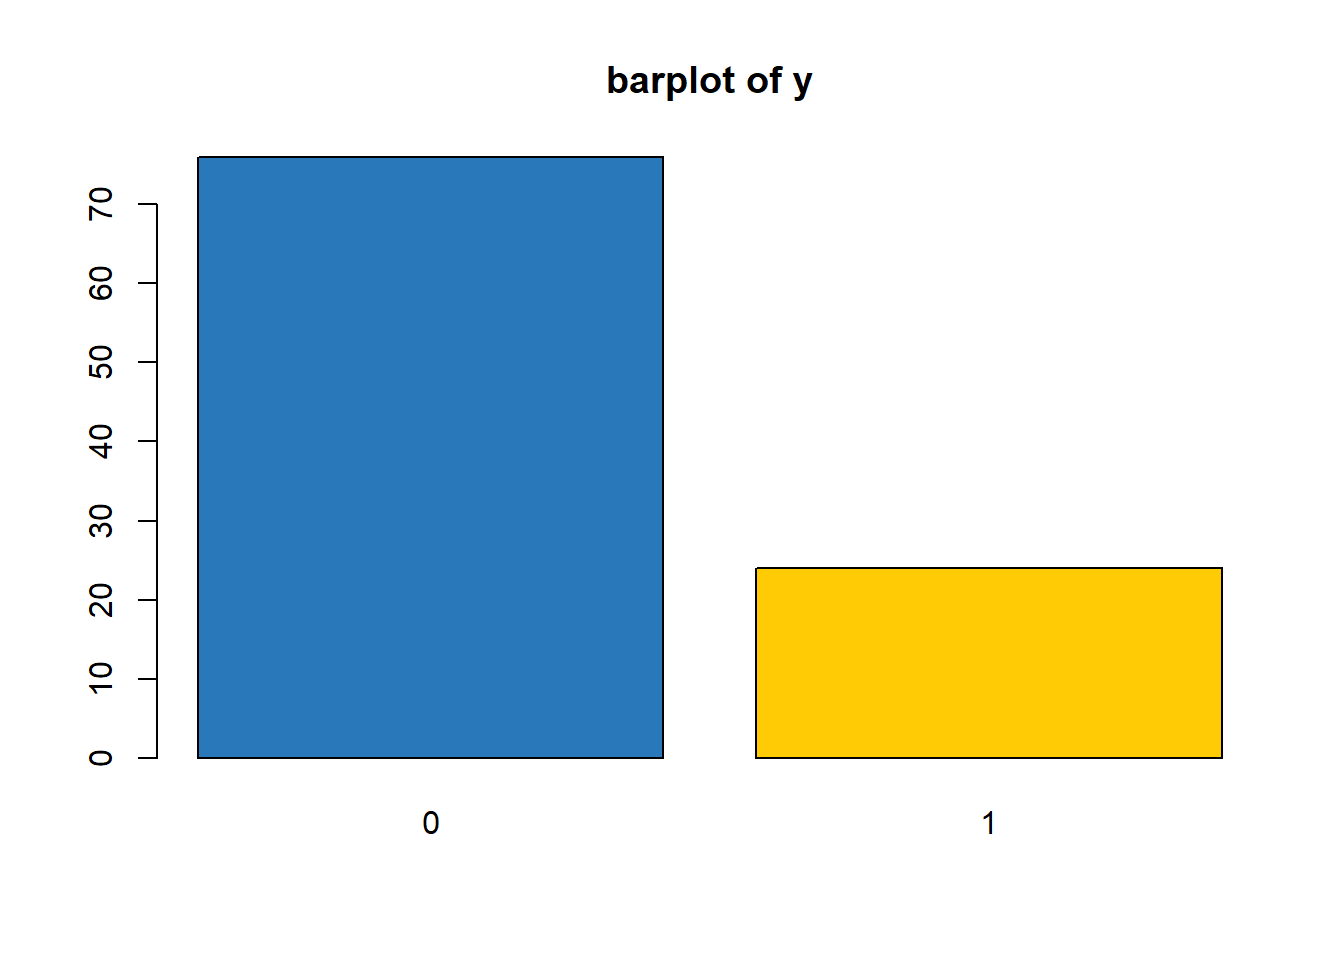
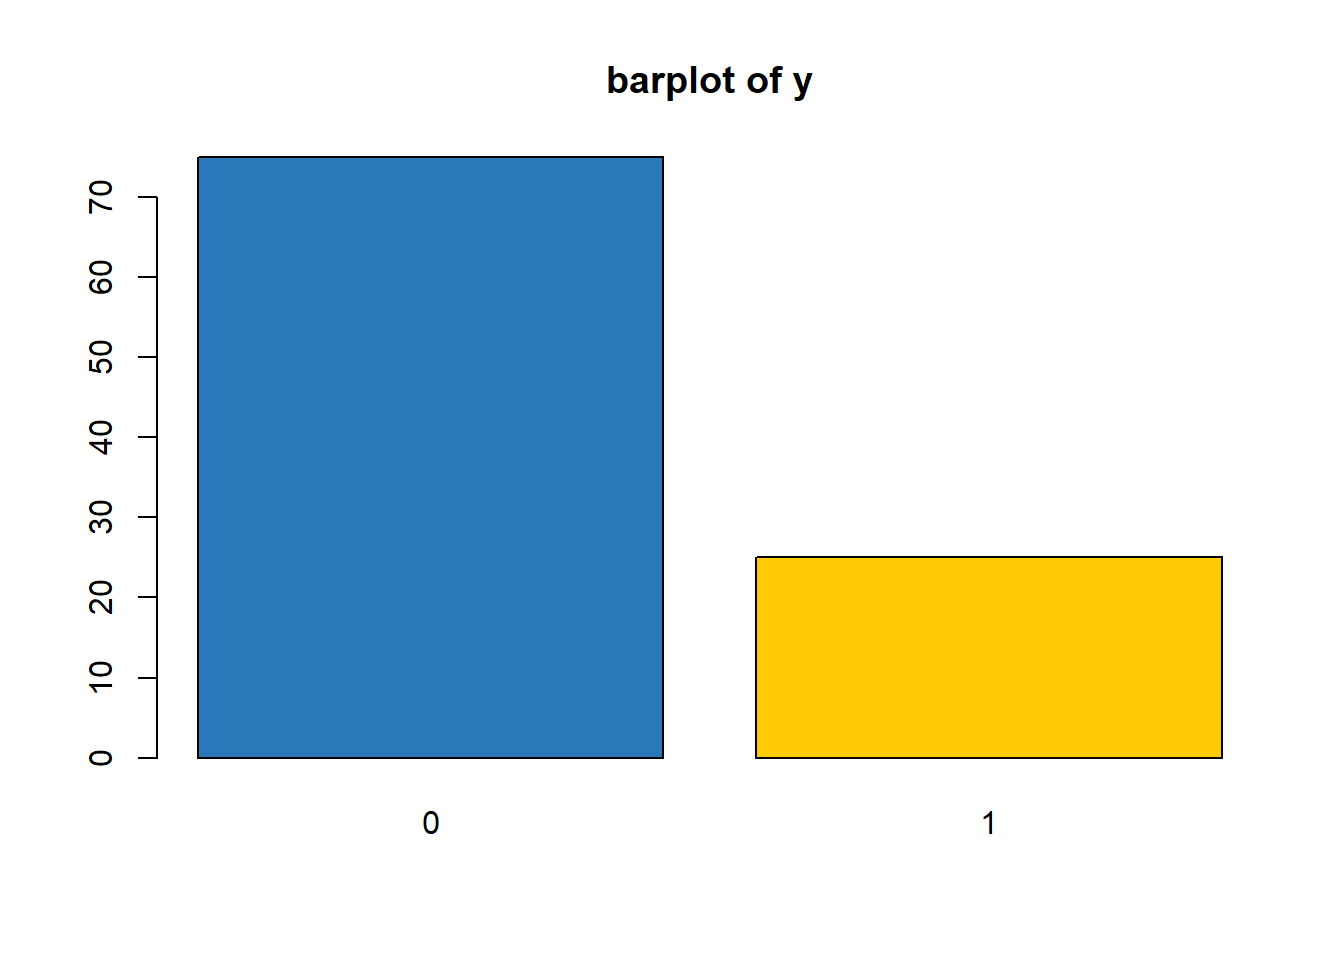
better CSS

diff --git a/introduction-to-R/process-your-data.html b/introduction-to-R/process-your-data.html
@@ -24,7 +24,7 @@
 <meta name="author" content="Andy Grogan-Kaylor" />
 
 
-<meta name="date" content="2019-12-11" />
+<meta name="date" content="2019-12-12" />
 
   <meta name="viewport" content="width=device-width, initial-scale=1" />
   <meta name="apple-mobile-web-app-capable" content="yes" />
@@ -212,13 +212,13 @@ code span.wa { color: #008000; font-weight: bold; } /* Warning */
 </blockquote>
 <div class="sourceCode" id="cb19"><pre class="sourceCode r"><code class="sourceCode r"><a class="sourceLine" id="cb19-1" title="1"><span class="kw">summary</span>(x1) </a></code></pre></div>
 <pre><code>##    Min. 1st Qu.  Median    Mean 3rd Qu.    Max. 
-##   62.87   92.46  100.83  100.16  107.32  131.19</code></pre>
+##   82.38   94.73  100.78  101.38  107.11  127.65</code></pre>
 <blockquote>
 <p>x2 is a factor.</p>
 </blockquote>
 <div class="sourceCode" id="cb21"><pre class="sourceCode r"><code class="sourceCode r"><a class="sourceLine" id="cb21-1" title="1"><span class="kw">summary</span>(x2)</a></code></pre></div>
 <pre><code>##  0  1 
-## 75 25</code></pre>
+## 74 26</code></pre>
 <p>It can sometimes be useful to change variables from one type to another.</p>
 <div class="sourceCode" id="cb23"><pre class="sourceCode r"><code class="sourceCode r"><a class="sourceLine" id="cb23-1" title="1">mydata<span class="op">$</span>x &lt;-<span class="st"> </span><span class="kw">as.numeric</span>(mydata<span class="op">$</span>y)</a>
 <a class="sourceLine" id="cb23-2" title="2"></a>

diff --git a/introduction-to-R/comments-questions-and-corrections.html b/introduction-to-R/comments-questions-and-corrections.html
@@ -24,7 +24,7 @@
 <meta name="author" content="Andy Grogan-Kaylor" />
 
 
-<meta name="date" content="2019-12-11" />
+<meta name="date" content="2019-12-12" />
 
   <meta name="viewport" content="width=device-width, initial-scale=1" />
   <meta name="apple-mobile-web-app-capable" content="yes" />
@@ -184,7 +184,7 @@ code span.wa { color: #008000; font-weight: bold; } /* Warning */
 <div id="comments-questions-and-corrections" class="section level1">
 <h1><span class="header-section-number">15</span> Comments, Questions and Corrections</h1>
 <p>Comments, questions and corrections most welcome and may be sent to: Andrew Grogan-Kaylor @ <a href="http://www.umich.edu/~agrogan">http://www.umich.edu/~agrogan</a> &amp; @ <a href="agrogan@umich.edu">agrogan@umich.edu</a>.</p>
-<p>Last updated: <code>December 11 2019</code> at <code>14:26</code></p>
+<p>Last updated: <code>December 12 2019</code> at <code>08:31</code></p>
 </div>
 
 

diff --git a/introduction-to-R/background.html b/introduction-to-R/background.html
@@ -24,7 +24,7 @@
 <meta name="author" content="Andy Grogan-Kaylor" />
 
 
-<meta name="date" content="2019-12-11" />
+<meta name="date" content="2019-12-12" />
 
   <meta name="viewport" content="width=device-width, initial-scale=1" />
   <meta name="apple-mobile-web-app-capable" content="yes" />
@@ -185,7 +185,7 @@ code span.wa { color: #008000; font-weight: bold; } /* Warning */
 <h1 class="title">Introduction to R</h1>
 <h2 class="subtitle"><em>A Practically Focused Guide</em></h2>
 <p class="author"><em>Andy Grogan-Kaylor</em></p>
-<p class="date"><em>December 11, 2019</em></p>
+<p class="date"><em>December 12, 2019</em></p>
 </div>
 <div id="background" class="section level1">
 <h1><span class="header-section-number">1</span> Background</h1>

diff --git a/introduction-to-R/base-r-and-libraries.html b/introduction-to-R/base-r-and-libraries.html
@@ -24,7 +24,7 @@
 <meta name="author" content="Andy Grogan-Kaylor" />
 
 
-<meta name="date" content="2019-12-11" />
+<meta name="date" content="2019-12-12" />
 
   <meta name="viewport" content="width=device-width, initial-scale=1" />
   <meta name="apple-mobile-web-app-capable" content="yes" />

diff --git a/introduction-to-R/bivariate-statistics.html b/introduction-to-R/bivariate-statistics.html
@@ -24,7 +24,7 @@
 <meta name="author" content="Andy Grogan-Kaylor" />
 
 
-<meta name="date" content="2019-12-11" />
+<meta name="date" content="2019-12-12" />
 
   <meta name="viewport" content="width=device-width, initial-scale=1" />
   <meta name="apple-mobile-web-app-capable" content="yes" />

diff --git a/introduction-to-R/descriptive-statistics.html b/introduction-to-R/descriptive-statistics.html
@@ -24,7 +24,7 @@
 <meta name="author" content="Andy Grogan-Kaylor" />
 
 
-<meta name="date" content="2019-12-11" />
+<meta name="date" content="2019-12-12" />
 
   <meta name="viewport" content="width=device-width, initial-scale=1" />
   <meta name="apple-mobile-web-app-capable" content="yes" />

diff --git a/introduction-to-R/get-your-data.html b/introduction-to-R/get-your-data.html
@@ -24,7 +24,7 @@
 <meta name="author" content="Andy Grogan-Kaylor" />
 
 
-<meta name="date" content="2019-12-11" />
+<meta name="date" content="2019-12-12" />
 
   <meta name="viewport" content="width=device-width, initial-scale=1" />
   <meta name="apple-mobile-web-app-capable" content="yes" />

diff --git a/introduction-to-R/graphical-user-interface.html b/introduction-to-R/graphical-user-interface.html
@@ -24,7 +24,7 @@
 <meta name="author" content="Andy Grogan-Kaylor" />
 
 
-<meta name="date" content="2019-12-11" />
+<meta name="date" content="2019-12-12" />
 
   <meta name="viewport" content="width=device-width, initial-scale=1" />
   <meta name="apple-mobile-web-app-capable" content="yes" />

diff --git a/introduction-to-R/graphing.html b/introduction-to-R/graphing.html
@@ -24,7 +24,7 @@
 <meta name="author" content="Andy Grogan-Kaylor" />
 
 
-<meta name="date" content="2019-12-11" />
+<meta name="date" content="2019-12-12" />
 
   <meta name="viewport" content="width=device-width, initial-scale=1" />
   <meta name="apple-mobile-web-app-capable" content="yes" />

diff --git a/introduction-to-R/introduction.html b/introduction-to-R/introduction.html
@@ -24,7 +24,7 @@
 <meta name="author" content="Andy Grogan-Kaylor" />
 
 
-<meta name="date" content="2019-12-11" />
+<meta name="date" content="2019-12-12" />
 
   <meta name="viewport" content="width=device-width, initial-scale=1" />
   <meta name="apple-mobile-web-app-capable" content="yes" />

diff --git a/introduction-to-R/multivariate-statistics.html b/introduction-to-R/multivariate-statistics.html
@@ -24,7 +24,7 @@
 <meta name="author" content="Andy Grogan-Kaylor" />
 
 
-<meta name="date" content="2019-12-11" />
+<meta name="date" content="2019-12-12" />
 
   <meta name="viewport" content="width=device-width, initial-scale=1" />
   <meta name="apple-mobile-web-app-capable" content="yes" />

diff --git a/introduction-to-R/save-and-document-your-work.html b/introduction-to-R/save-and-document-your-work.html
@@ -24,7 +24,7 @@
 <meta name="author" content="Andy Grogan-Kaylor" />
 
 
-<meta name="date" content="2019-12-11" />
+<meta name="date" content="2019-12-12" />
 
   <meta name="viewport" content="width=device-width, initial-scale=1" />
   <meta name="apple-mobile-web-app-capable" content="yes" />
